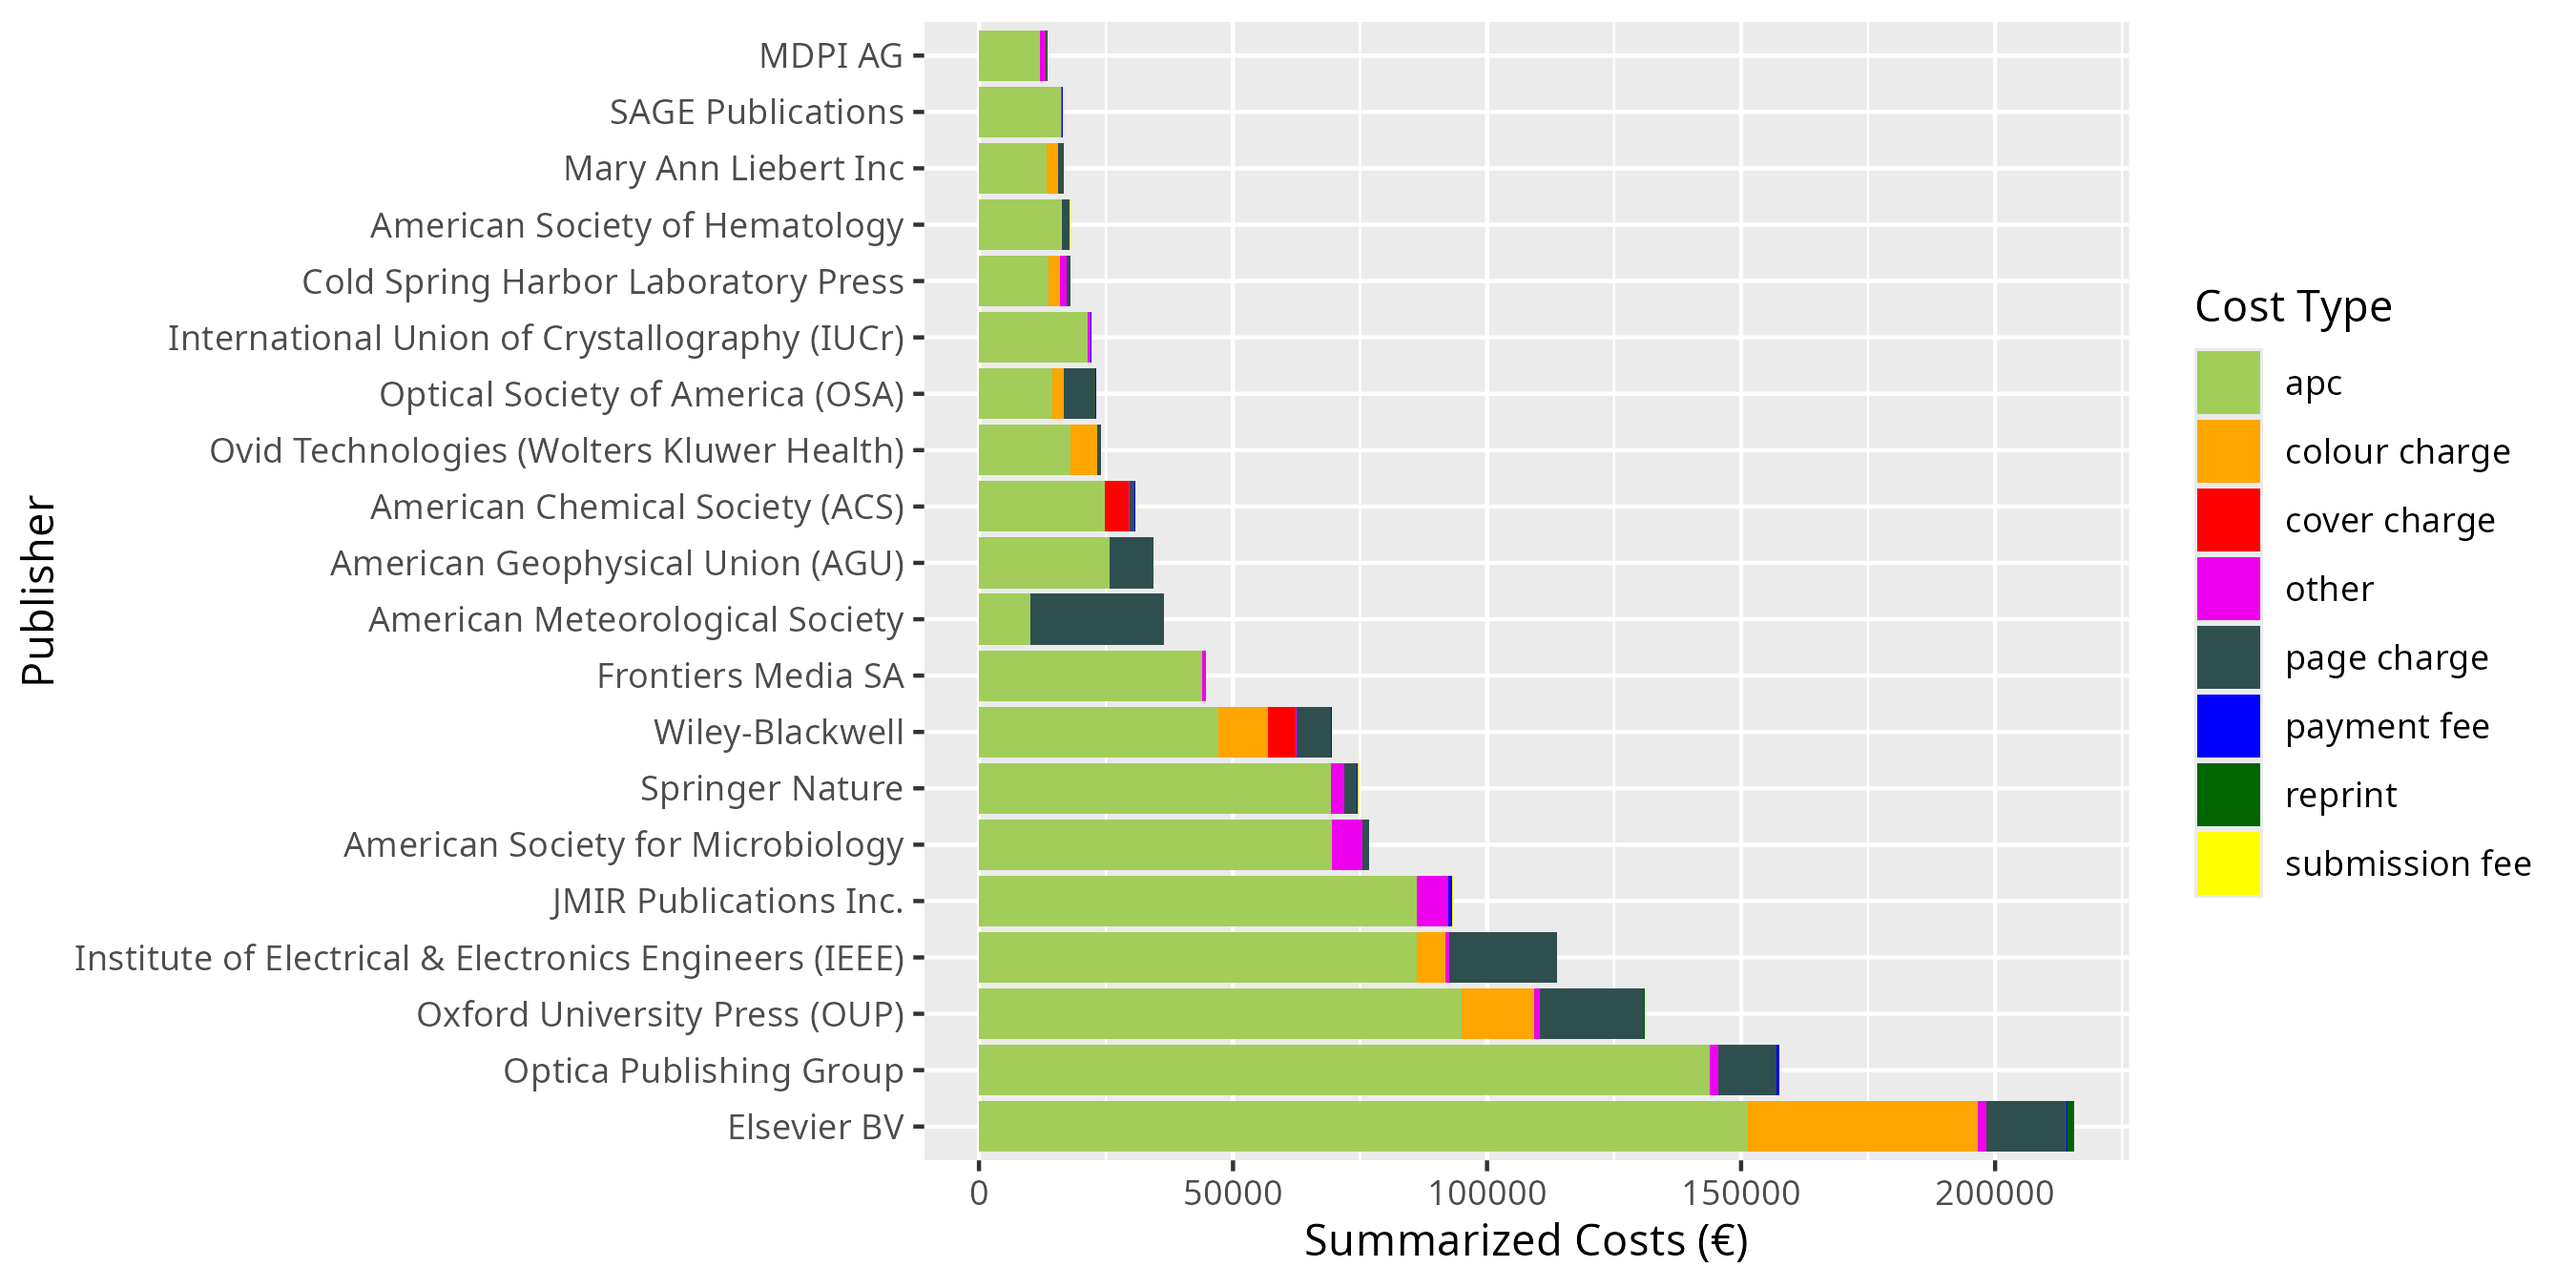
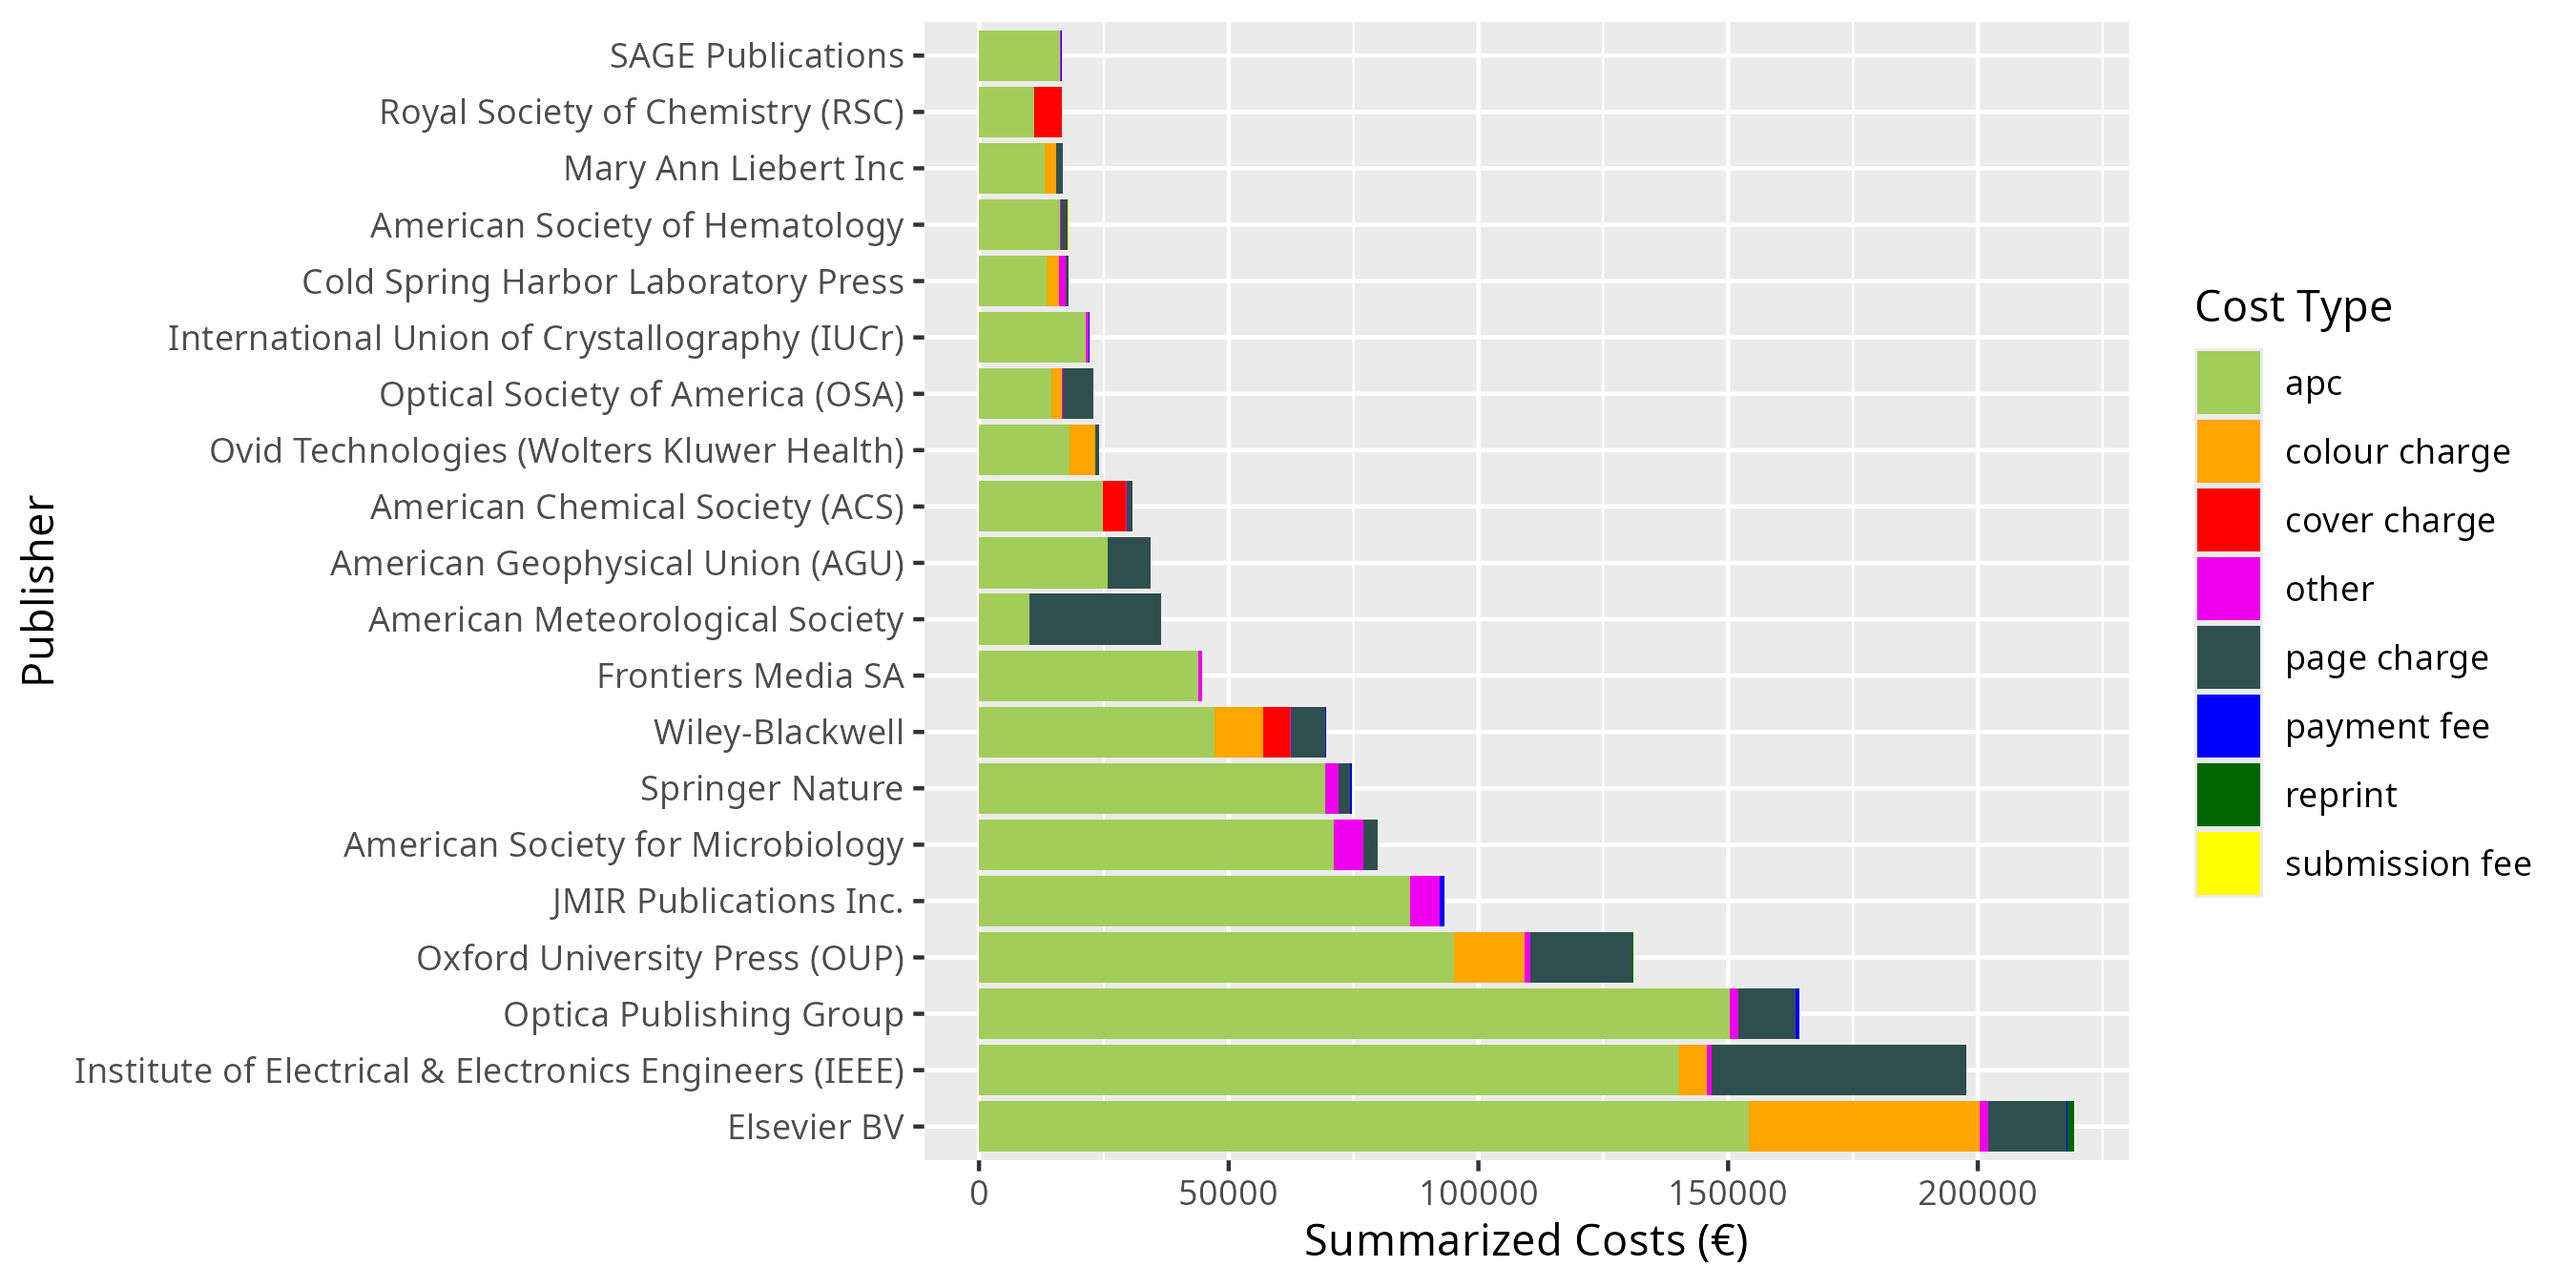
ac data added to collection

diff --git a/README.md b/README.md
@@ -1041,17 +1041,17 @@ Hybrid open access journals rely on both publication fees and subscriptions as r
 
 
 
-In addition to APCs, additional costs have been reported for 531 articles, totalling € 292,253. The following table shows an overview of the different cost types:
+In addition to APCs, additional costs have been reported for 566 articles, totalling € 327,921. The following table shows an overview of the different cost types:
 
 
 
 |Cost Type      | Number of Articles| Total Sum (€)|
 |:--------------|------------------:|-------------:|
-|colour charge  |                 68|        94,398|
-|cover charge   |                 11|        14,457|
+|colour charge  |                 71|        96,682|
+|cover charge   |                 12|        15,626|
 |other          |                208|        33,724|
-|page charge    |                159|       143,708|
-|payment fee    |                 68|         2,911|
+|page charge    |                187|       175,825|
+|payment fee    |                 71|         3,008|
 |reprint        |                  5|         2,207|
 |submission fee |                 12|           848|
 
